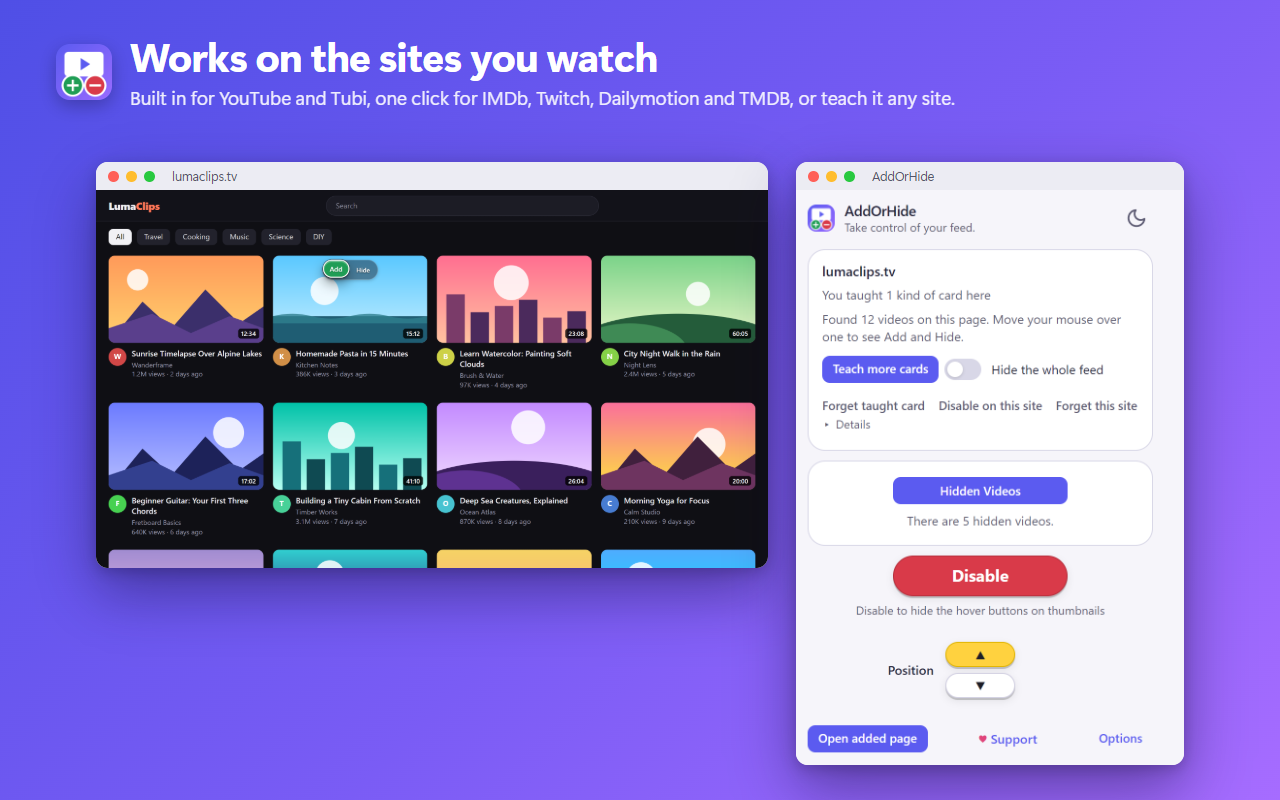
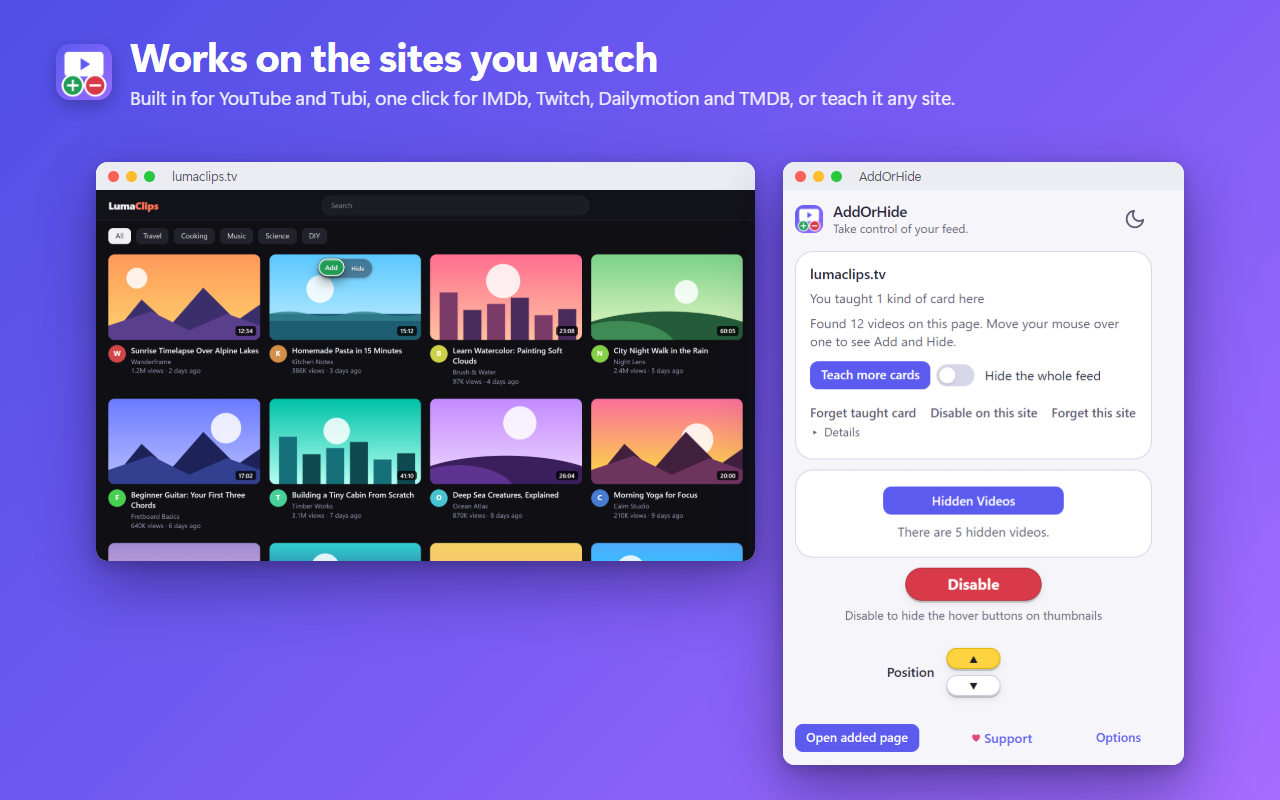
Smaller Enable/Disable and position buttons; screenshots refreshed

diff --git a/pages.css b/pages.css
@@ -182,8 +182,8 @@ body.popup main { display: flex; flex-direction: column; max-height: 576px; min-
 .control-row { display: flex; gap: 12px; align-items: center; }
 .button-controls .control-label { font-weight: 600; }
 .position-buttons { display: grid; gap: 6px; }
-.button-controls .press-button.toggle-button { min-width: 180px; min-height: 44px; padding: 8px 24px; font-size: 17px; }
-.button-controls .press-button.edge-button { min-width: 72px; min-height: 26px; padding: 3px 10px; font-size: 12px; line-height: 1; }
+.button-controls .press-button.toggle-button { min-width: 136px; min-height: 34px; padding: 5px 18px; font-size: 15px; }
+.button-controls .press-button.edge-button { min-width: 54px; min-height: 21px; padding: 2px 8px; font-size: 10px; line-height: 1; }
 .button-controls .press-button {
   min-width: 112px;
   min-height: 32px;
@@ -221,7 +221,7 @@ body.popup main { display: flex; flex-direction: column; max-height: 576px; min-
 body.popup main { overflow-y: auto; scrollbar-width: thin; }
 .popup .site-card, .popup .popup-edge, .popup .popup-footer { flex: 0 0 auto; }
 .popup .button-controls { gap: 24px; }
-.popup .button-controls .press-button.toggle-button { min-height: 40px; }
+.popup .button-controls .press-button.toggle-button { min-height: 32px; }
 
 /* The arrow buttons sit on the centre line (under Enable); "Position" hangs to their left. */
 .button-controls .position-row { display: grid; grid-template-columns: 1fr auto 1fr; justify-self: stretch; }
